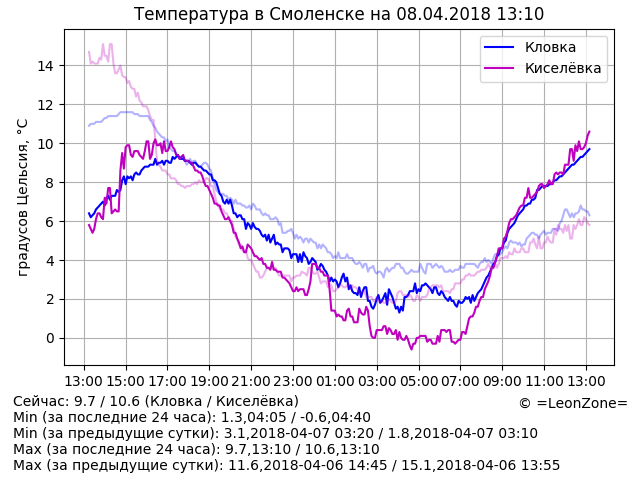
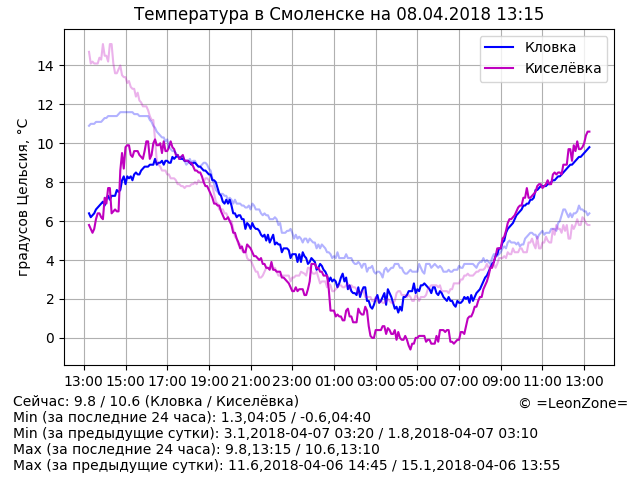
Update data

diff --git a/index.html b/index.html
@@ -14,10 +14,10 @@
 	<p align="center"><script>document.write("<img src=\"graph.png?rnd="+Math.random()+"\" alt=\"Температура в Смоленске\" align=\"middle\" width=\"640\" height=\"480\" />")</script>
 	<p hidden="true">
 <!-- textinfo -->
-Сейчас: 9.7 / 10.6 (Кловка / Киселёвка)
+Сейчас: 9.8 / 10.6 (Кловка / Киселёвка)
 Min (за последние 24 часа): 1.3,04:05 / -0.6,04:40
 Min (за предыдущие сутки): 3.1,2018-04-07 03:20 / 1.8,2018-04-07 03:10
-Max (за последние 24 часа): 9.7,13:10 / 10.6,13:10
+Max (за последние 24 часа): 9.8,13:15 / 10.6,13:10
 Max (за предыдущие сутки): 11.6,2018-04-06 14:45 / 15.1,2018-04-06 13:55
 <!-- /textinfo -->
 	<footer hidden="true">© =LeonZone=</footer>
